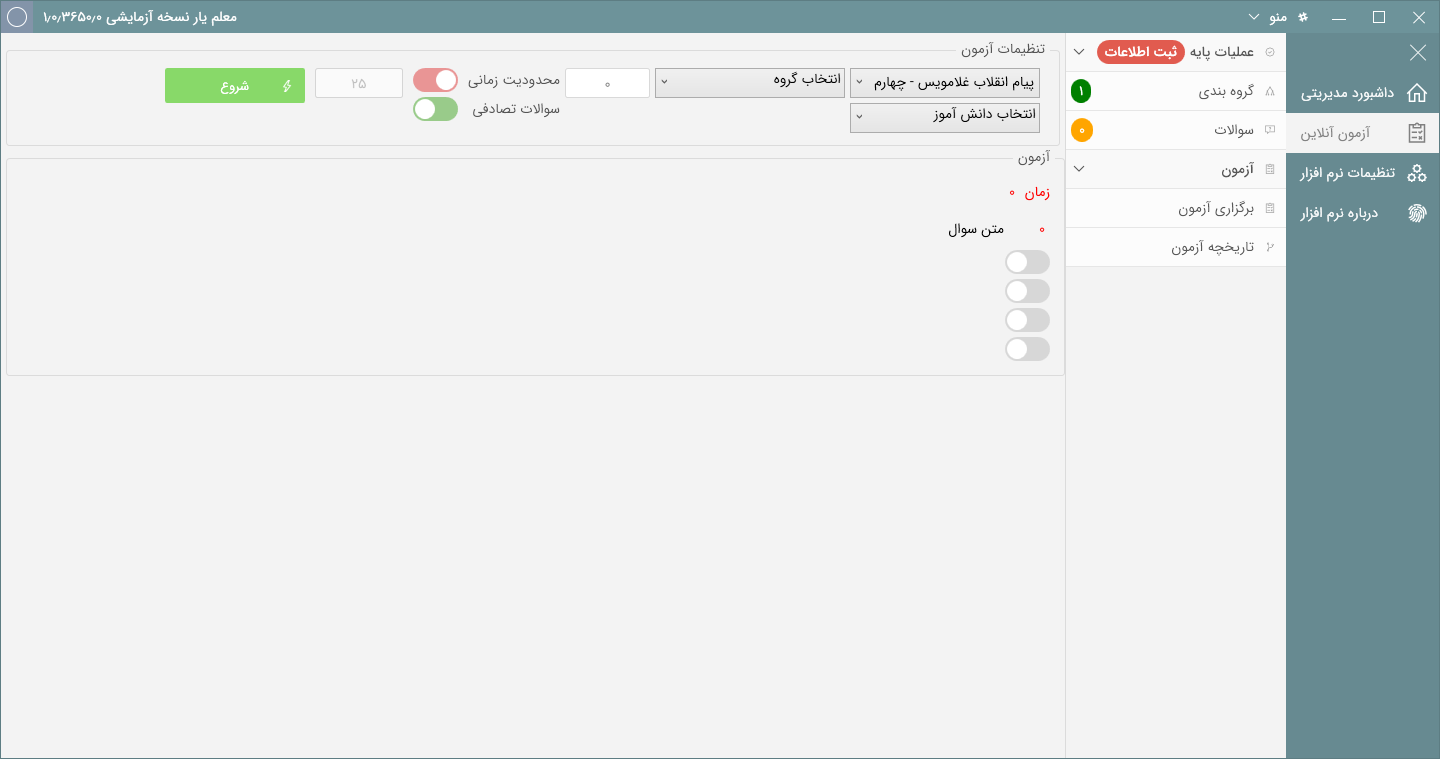
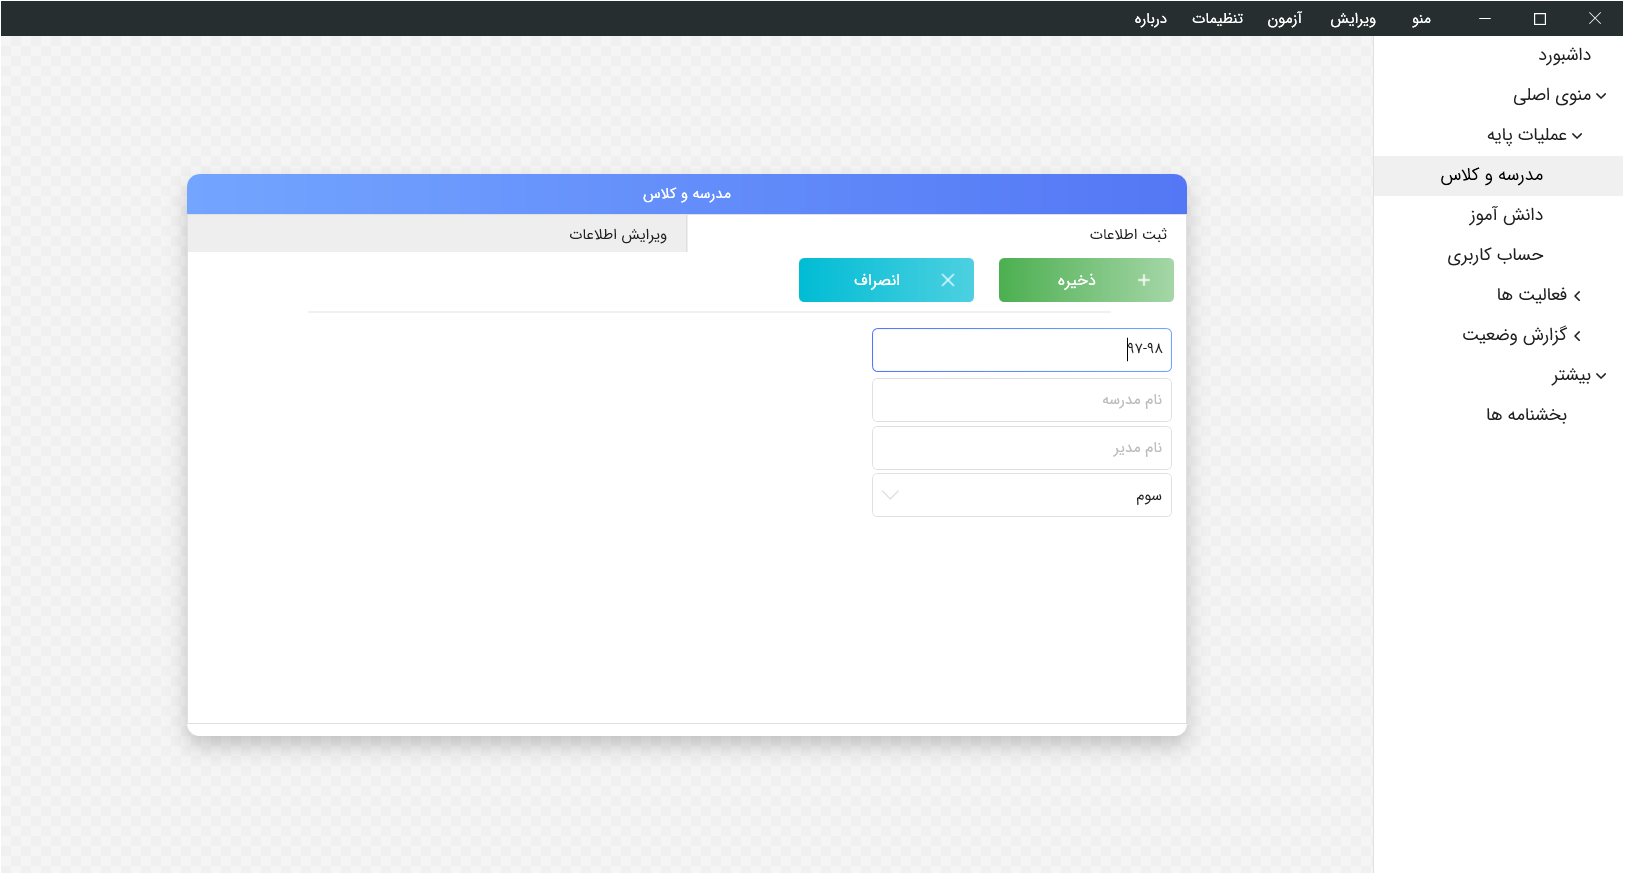
update screenShots and Readme!
update screenShots and Readme!

Changed region(s): [[0.0, 0.0, 1.0, 1.0], [0.125, 0.8182, 0.7188, 0.8788], [0.0938, 0.0909, 0.2188, 0.1515]]

diff --git a/MoalemYar/Properties/AssemblyInfo.cs b/MoalemYar/Properties/AssemblyInfo.cs
@@ -57,5 +57,5 @@ using System.Windows;
 // You can specify all the values or you can default the Build and Revision Numbers
 // by using the '*' as shown below:
 // [assembly: AssemblyVersion("1.0.*")]
-[assembly: AssemblyVersion("2.1.5275.0")]
-[assembly: AssemblyFileVersion("2.1.5275.0")]
+[assembly: AssemblyVersion("2.1.5276.0")]
+[assembly: AssemblyFileVersion("2.1.5276.0")]

diff --git a/README.md b/README.md
@@ -1,10 +1,56 @@
 [![Total downloads](https://img.shields.io/github/downloads/ghost1372/MoalemYar/total.svg)](https://github.com/ghost1372/MoalemYar/releases)
 [![GitHub version](https://badge.fury.io/gh/ghost1372%2FMoalemYar.svg)](https://badge.fury.io/gh/ghost1372%2FMoalemYar)
 
-### this branch is under development for changing ui
+# <div dir="rtl">
+<a href="#en-US">English Readme!</a>
+</div>
+# <div dir="rtl"> معلم یار</div>
+ <div dir="rtl">
+ معلم یار یک پروژه شخصی جهت ساده کردن امور مربوط به مدیریت کلاس و کنترل پیشرفت دانش آموزان می باشد. این نرم افزار کاملا رایگان بوده و برای تهیه آن از کتابخانه های متن باز دیگر استفاده شده است. همچنین این مخزن یک مثال عالی از نحوه استفاده از تکنولوژی بنیاد نمایش ویندوز و طراحی رابط کاربری منعطف می باشد.
+</div>
 
-# MoalemYar
-A personal project for class management, using various technologies like WPF, Entityframwork, CodeFirst, Sqlite, Migration and more.
+# <div dir="rtl"> Images | تصاویر</div>
+
+![Optional Text](Screen1.png)
+![Optional Text](Screen2.png)
+![Optional Text](Screen3.png)
+![Optional Text](Screen4.png)
+![Optional Text](Screen5.png)
+![Optional Text](Screen6.png)
+
+## <div dir="rtl">ویژگی ها</div>
+<div dir="rtl">
+<br>قابلیت ایجاد سال تحصیلی و مدرسه های متعدد
+<br>قابلیت ایجاد دانش آموزان برای هرکلاس با مشخصات + عکس
+<br>دارای امنیت ورود به نرم افزار
+<br>قابلیت حضور غیاب روزانه کلاس
+<br>ارزشیابی دروس بصورت توصیفی
+<br>سیستم هوشمند تشخیص افرادی که پرسش نشده اند
+<br>سیستم پیشرفت تحصیلی هوشمند و پیشرفته با قابلیت مقایسه دانش آموزان در دروس مختلف، امتیازات کلی، و… بصورت نمودار های مختلف
+<br>سیستم پیشرفته مقایسه دانش آموز با خود
+<br>قابلیت تعیین شاگرد های کلاس
+<br>قابلیت ویرایش و حذف اطلاعات
+<br>بسیار سریع و قدرتمند
+<br>دارای سیستم بروزرسانی نرم افزار
+<br>تقویم شمسی زیبا و کامل همراه با روزهای تعطیل رسمی
+<br>و…
+</div>
+
+## <div dir="rtl">دانلود</div>
+
+<div dir="rtl">
+آخرین نسخه ها را از اینجا دریافت کنید
+</div>
+ [via the releases tab](https://github.com/ghost1372/MoalemYar/releases).<br>
+
+## <div dir="rtl">مشارکت</div>
+
+<div dir="rtl">
+هرگونه همیاری و کمک در توسعه این برنامه با کمال میل پذیرفته می شود</div>
+
+
+# <div id="en-US">MoalemYar</div>
+A personal project for class management, using various technologies like WPF, Entityframwork, CodeFirst, Sqlite, Migration and more. also this project is An excellent example of working with controls in WPF and GUI.
 
 ## Technology used
 VisualStudio 2017<br>
@@ -33,7 +79,9 @@ Migration<br>
 ## Compile
 for Compile this Project you need Visual Studio 2017
 
-## Images
-Soon...
-## Previous Version
+## Version 1
+for using version 1 you must change master branch to version-1 branch.
+
+## Old Version
+you can access Old Version from this repo. this version written by C# and Winform.
 https://github.com/ghost1372/ClassSRM
